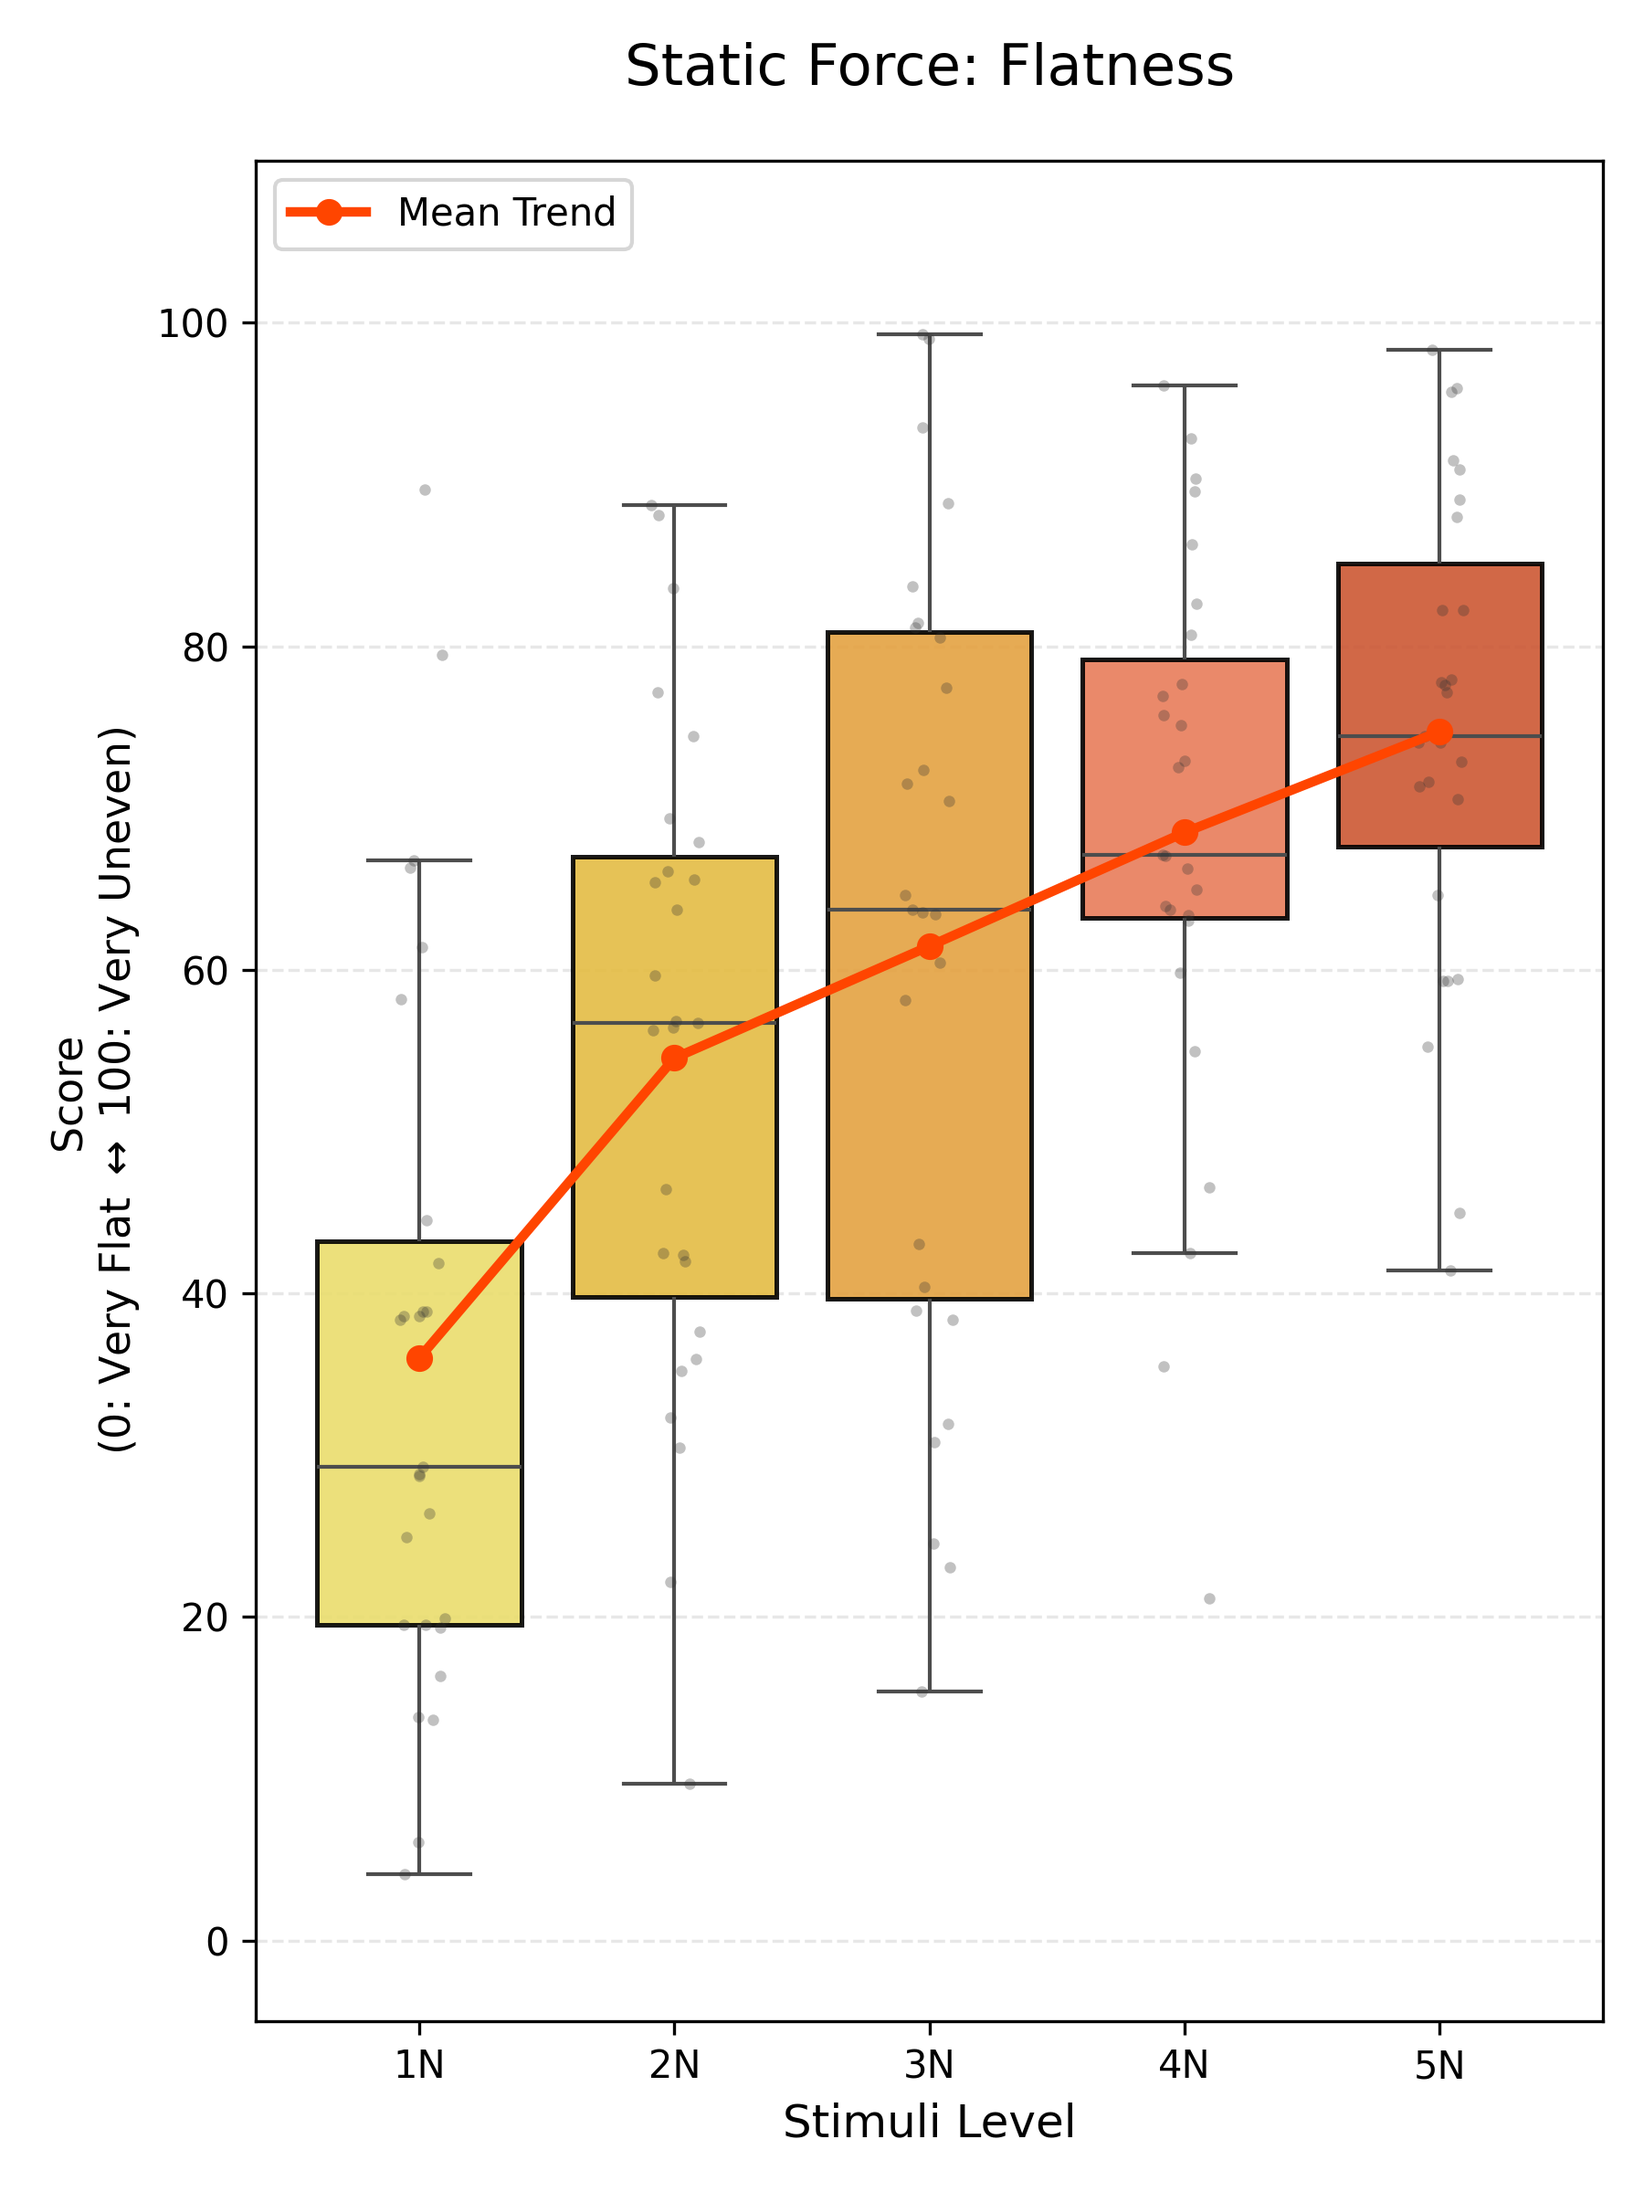
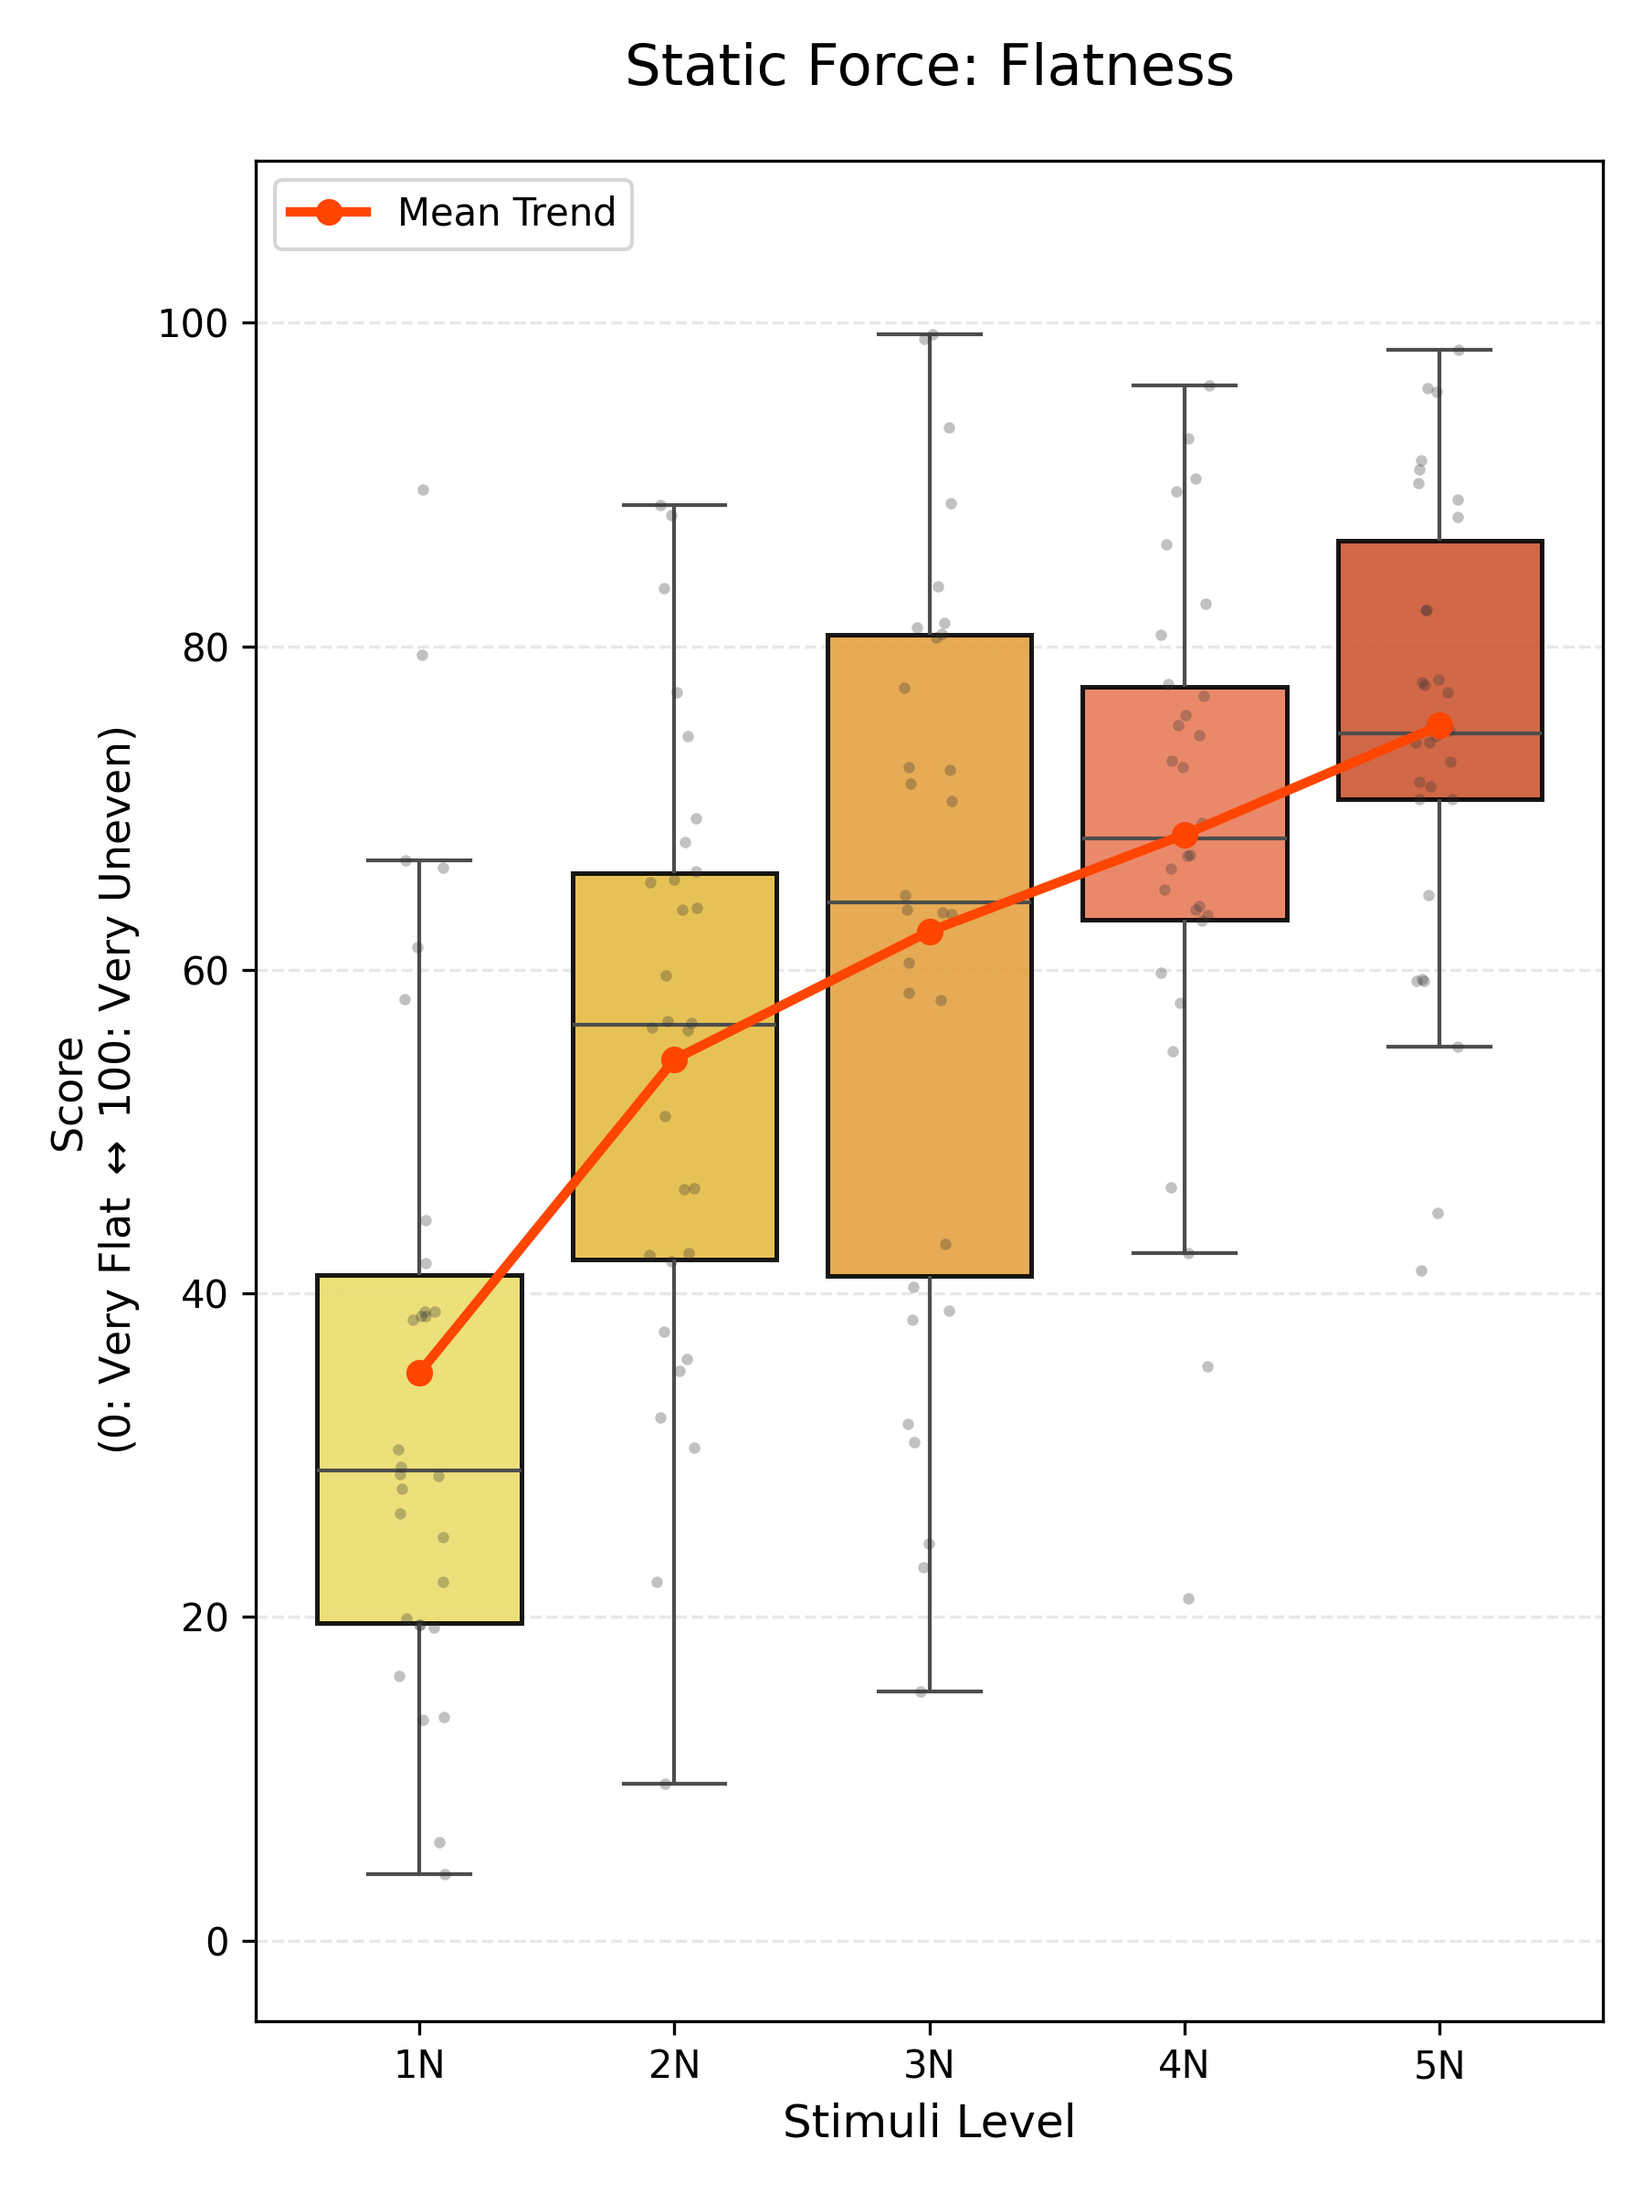
small amends 2

diff --git a/index.html b/index.html
@@ -856,29 +856,37 @@
       <div style="background-color: #fff9db; padding: 25px; border-left: 5px solid #fcc419; margin: 30px 0; border-radius: 0 8px 8px 0;">
         <h5 style="margin-top: 0; color: #856404;">Detailed Statistical Interpretation</h5>
         <p>
-          The analysis yielded highly significant results (<b>p < 0.001</b>) across all primary 
-          perceptual categories, rejecting the null hypothesis that stimulus levels have no effect 
-          on user perception.
+          The analysis yielded highly significant results ($p < 0.001$) for most perceptual categories,
+          rejecting the null hypothesis that stimulus levels have no effect on user perception, with
+          the notable exception of Stiffness under static pressure.
         </p>
         <ul style="line-height: 1.7;">
           <li>
-            <b>Static Force Sensitivity:</b> For <b>Stiffness</b> and <b>Flatness</b>, the 
-            Chi-square values (χ²(4))of 42.85 and 56.12 respectively indicate that the 
-            plantar mechanoreceptors are highly sensitive to incremental pressure changes between 
-            1 N and 5 N.
+            <b>Static Force Sensitivity:</b> For <b>Flatness</b> and <b>Roughness</b>,
+            the results indicate that plantar mechanoreceptors are sensitive to incremental pressure
+            changes. However, Stiffness (p = 0.106) did not show a statistically significant trend
+            across the 1–5 N range, suggesting that users may find it difficult to distinguish material
+            hardness solely through varying levels of static force without dynamic cues.
           </li>
           <li>
-            <b>Vibration Frequency Modulation:</b> The <b>Roughness</b> dimension showed the
-            highest Chi-square value (χ²(9) = 92.34), proving that frequency is the
-            dominant driver for texture simulation. The significant drop in scores at higher
-            frequencies (80–100 Hz) suggests a clear perceptual boundary for "coarse" vs. "fine"
-            materials.
-          </li>
-          <li>
-            <b>Consistency:</b> The low p-values across all dimensions confirm that the
-            <b>Arch-Adaptive Base</b> successfully maintained stable contact, allowing users
-            to reliably distinguish between different terrain qualities.
-          </li>
+            <b>Vibration Frequency Modulation:</b> The <b>Flatness</b> and <b>Roughness</b> dimensions 
+            showed the highest Chi-square values (χ² = 177.64 and 144.18 respectively), proving that frequency is 
+            the dominant driver for texture simulation. Piecewise comparisons revealed that the most significant 
+            perceptual shifts occur in the mid-frequency range (40–60 Hz), identifying this as a critical zone 
+            for simulating tactile transitions.
+        </li>
+        <li>
+            <b>Perceptual Boundaries:</b> The significant p-values and subsequent pairwise analysis 
+            for <b>Vibration / Stiffness</b> (χ² = 92.51) indicate that frequency also modulates the perceived 
+            "firmness" of a surface, especially as frequencies approach the 80–90 Hz range, where a distinct change 
+            in stiffness perception was recorded (p = 0.027).
+        </li>
+        <li>
+            <b>System Reliability:</b> The high consistency of these low p-values (excepting static stiffness) 
+            confirms that the <b>Arch-Adaptive Base</b> successfully maintained stable skin-device contact, 
+            allowing users to reliably distinguish between different simulated terrain qualities across a wide range 
+            of mechanical outputs.
+        </li>
         </ul>
         <p style="margin-bottom: 0;">
           <p>
@@ -905,7 +913,7 @@
         </li>
         <li>
           <b>Static Force and Solidity:</b> The positive linear correlation between static load
-          (1 N to 5 N) and perceived stiffness ensures that increased pneumatic intrusion is interpreted
+          (1 N to 5 N) and perceived flatness ensures that increased pneumatic intrusion is interpreted
           as solid ground contact. This allows the system to differentiate between a firm <b>Stone Path</b>
           and softer underlays.
         </li>

diff --git a/components/table-component/table-component.js b/components/table-component/table-component.js
@@ -88,11 +88,11 @@ new gridjs.Grid({
   ],
   resizable: true,
   data: [
-    ["Static Force / Stiffness", "42.85", "4", "< 0.001", "Extremely Sig (***)"],
-    ["Static Force / Flatness", "56.12", "4", "< 0.001", "Extremely Sig (***)"],
-    ["Vibration / Roughness", "92.34", "9", "< 0.001", "Extremely Sig (***)"],
-    ["Vibration / Flatness", "88.19", "9", "< 0.001", "Extremely Sig (***)"],
-    ["Vibration / Stiffness", "85.47", "9", "< 0.001", "Extremely Sig (***)"]
+    ["Static Force / Stiffness", "7.33", "4", "< 0.001", "Not Significant (ns)"],
+    ["Static Force / Flatness", "63.227", "4", "< 0.001", "Extremely Sig (***)"],
+    ["Vibration / Roughness", "144.181", "9", "< 0.001", "Extremely Sig (***)"],
+    ["Vibration / Flatness", "177.640", "9", "< 0.001", "Extremely Sig (***)"],
+    ["Vibration / Stiffness", "92.505", "9", "< 0.001", "Extremely Sig (***)"]
   ],
   style: {
     th: {
